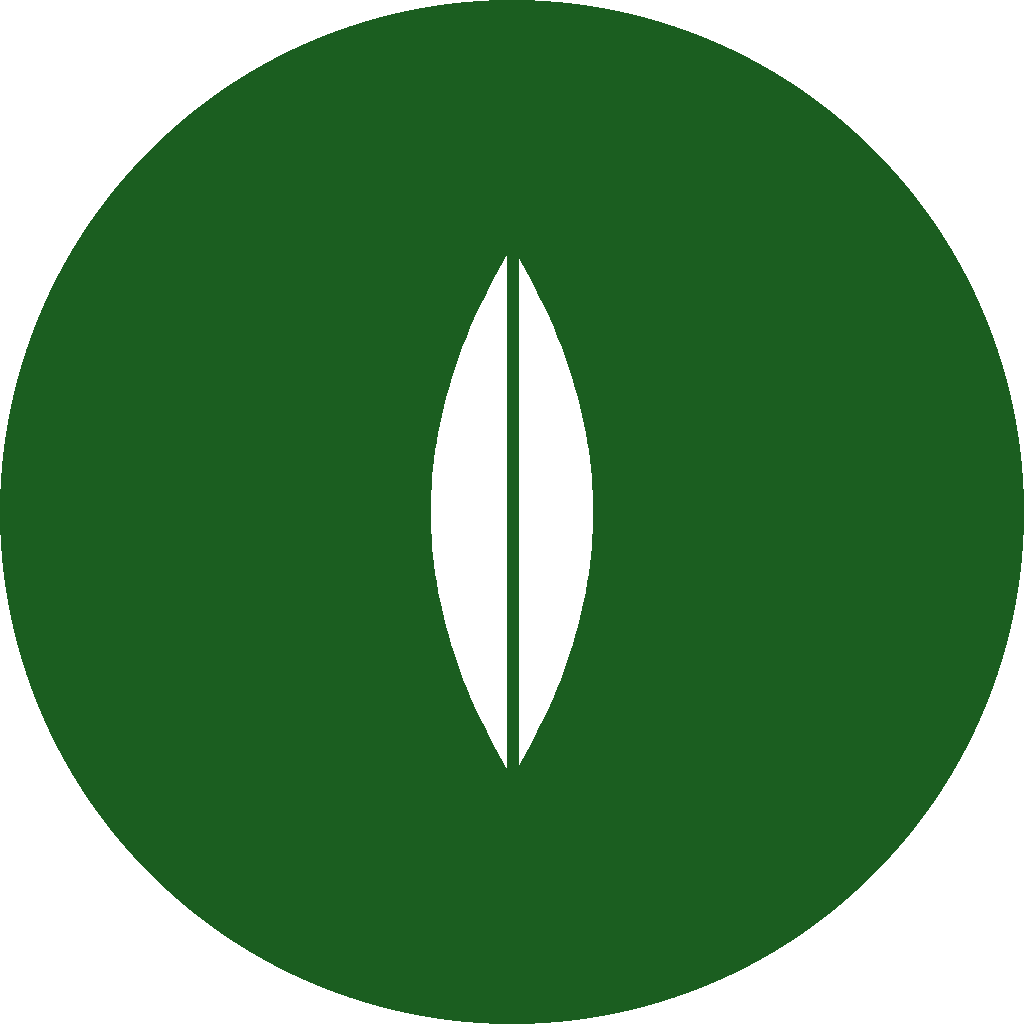
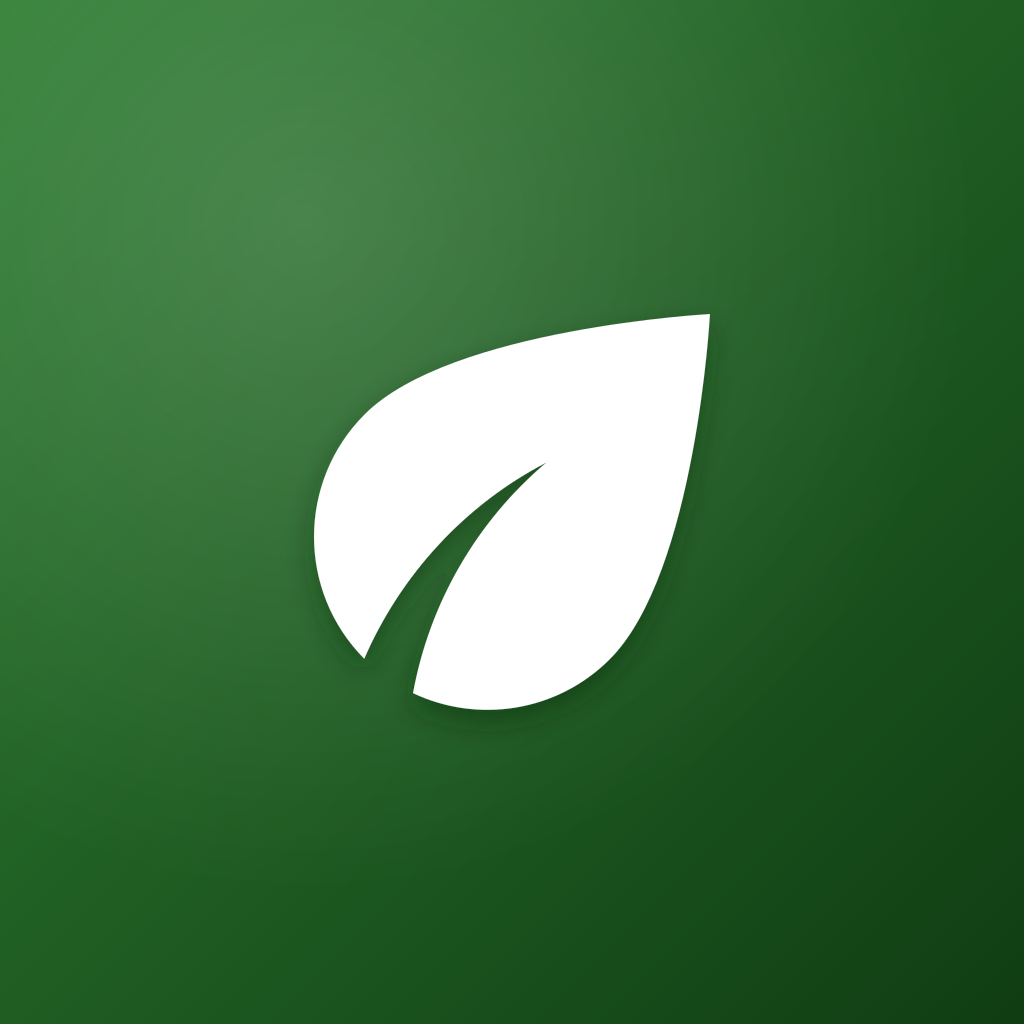
chore: linea base post-entrega (API prod, iconos adaptativos, sugerencia aleatoria, CLAUDE.md fase profesional)

diff --git a/backend/routes/activities.js b/backend/routes/activities.js
@@ -4,6 +4,32 @@ const { requireAuth } = require('../middleware/auth');
 
 const VALID_MOODS = ['FELIZ', 'TRISTE', 'ANSIOSO', 'CALMADO', 'ENOJADO', 'NEUTRO'];
 
+// GET /api/activities/random?mood=FELIZ[&exclude=N]
+router.get('/random', requireAuth, async (req, res) => {
+  const { mood, exclude } = req.query;
+
+  if (!mood || !VALID_MOODS.includes(mood)) {
+    return res.status(400).json({ error: 'mood inválido o faltante' });
+  }
+
+  const where = { moodType: mood };
+  if (exclude) {
+    where.activityId = { not: parseInt(exclude, 10) };
+  }
+
+  const moodActivities = await prisma.moodActivity.findMany({
+    where,
+    include: { activity: true },
+  });
+
+  if (moodActivities.length === 0) {
+    return res.json({ activity: null });
+  }
+
+  const idx = Math.floor(Math.random() * moodActivities.length);
+  res.json({ activity: moodActivities[idx].activity });
+});
+
 // GET /api/activities?categoria=social
 router.get('/', requireAuth, async (req, res) => {
   const { categoria } = req.query;

diff --git a/backend/routes/moodEntries.js b/backend/routes/moodEntries.js
@@ -5,20 +5,15 @@ const { requireAuth } = require('../middleware/auth');
 const VALID_MOODS = ['FELIZ', 'TRISTE', 'ANSIOSO', 'CALMADO', 'ENOJADO', 'NEUTRO'];
 
 async function nextSuggestion(userId, moodType, moodEntryId) {
-  const [count, moodActivities] = await Promise.all([
-    prisma.suggestion.count({
-      where: { moodEntry: { userId, moodType } },
-    }),
-    prisma.moodActivity.findMany({
-      where: { moodType },
-      include: { activity: true },
-      orderBy: { activityId: 'asc' },
-    }),
-  ]);
+  const moodActivities = await prisma.moodActivity.findMany({
+    where: { moodType },
+    include: { activity: true },
+    orderBy: { activityId: 'asc' },
+  });
 
   if (moodActivities.length === 0) return null;
 
-  const idx = count % moodActivities.length;
+  const idx = Math.floor(Math.random() * moodActivities.length);
   const chosen = moodActivities[idx].activity;
 
   await prisma.suggestion.create({

diff --git a/app/config.js b/app/config.js
@@ -1,4 +1,4 @@
 // ⚠️  DEMO: cambia esta IP a la de tu notebook antes de presentar
 // Ejemplo: 'http://192.168.1.45:3000'
 // Para encontrar tu IP en Windows: abre cmd y ejecuta `ipconfig`
-export const API_URL = 'http://192.168.0.112:3000';
+export const API_URL = 'https://moodmatch-0x2q.onrender.com';

diff --git a/CLAUDE.md b/CLAUDE.md
@@ -1,61 +1,149 @@
-# MoodMatch — Contexto del proyecto
+# MoodMatch — Visión sin límites (post-semestre)
 
-## Qué es
-App de bienestar personal (NO es red social). El usuario registra su estado
-de ánimo y la app le sugiere una actividad acorde. Los amigos se agregan vía
-un código QR único por usuario — no hay búsqueda pública ni descubrimiento
-social.
+## Contexto
 
-## Contexto académico
-- Curso: Ingeniería de Software, Universidad Santo Tomás (Chile)
-- Evaluación: Nota 2, presentación **miércoles 24 de junio de 2026, 14:00 hrs**
-- La rúbrica exige software funcional **real**, con base de datos conectada y
-  sin errores — no basta con documentación en papel (eso cambió respecto a
-  Nota 1)
+MoodMatch ya fue entregado y aprobado (Nota 2, Ingeniería de Software). El semestre
+terminó. A partir de ahora este documento reemplaza cualquier restricción de scope
+académico anterior: el objetivo es convertir MoodMatch en una app de nivel profesional,
+como si fuera a lanzarse de verdad a una tienda de apps.
 
-## Alcance mínimo decidido — NO AMPLIAR sin pedir confirmación
-Por el tiempo disponible, el alcance para la demo es deliberadamente acotado.
-No agregues funcionalidades extra (notificaciones, chat, matching avanzado,
-diseño muy pulido, etc.) sin que el usuario lo pida explícitamente:
+**Stack actual (base a mantener, no reescribir desde cero salvo justificación clara):**
+- Backend: Node.js / Express, Prisma ORM, PostgreSQL en Neon
+- Frontend: Expo / React Native
+- Deploy: Render (backend), EAS Build (APK)
+- Tests: 22 tests unitarios con Jest (base a expandir, no descartar)
 
-1. Registro / login básico
-2. Ingresar estado de ánimo → mostrar 1 actividad sugerida
-3. Generar el propio código QR + escanear uno para agregar un amigo (simple,
-   sin lista de amigos elaborada ni chat)
+**Nada de lo anterior es un techo.** Las decisiones de scope pasadas (WebSockets
+diferidos, alcance de amigos recortado, etc.) fueron correctas para una entrega
+académica con tiempo limitado. Ahora no hay ese límite: se reevalúa todo desde cero
+con el criterio de "¿qué haría que esta app sea genuinamente excelente?".
 
-## Stack tecnológico
-- **Backend**: Node.js + Express, carpeta `backend/`
-- **Base de datos**: PostgreSQL en Neon (cloud, free tier). NO Docker, NO
-  Postgres instalado localmente — decisión tomada por incompatibilidad de
-  Docker Desktop con el Windows 10 LTSC del usuario
-- **Conexión**: connection string vive en `backend/.env` como `DATABASE_URL`.
-  Nunca debe aparecer en código, commits, ni en este archivo
-- **ORM**: Prisma — úsalo para el esquema y las migraciones, no SQL a mano
-- **Frontend móvil**: Expo (React Native), carpeta `app/`
+## Filosofía de esta fase
 
-## Estructura de carpetas
+Trabajar como lo haría un equipo de producto + diseño + ingeniería senior construyendo
+un producto real, no como un estudiante terminando una tarea. Eso significa:
+- Explicar decisiones de diseño, no solo implementarlas
+- Pensar en el usuario final, no solo en que "funcione"
+- Cuidar el detalle: animaciones, microcopy, estados vacíos, casos borde
+- Priorizar por impacto real en la experiencia, no por lo más fácil de implementar
+
+---
+
+## 1. Sistema de temas (Theming)
+
+- Selector de tema accesible desde configuración, con preview en vivo antes de aplicar
+- Mínimo 4-5 temas completos (no solo cambio de color primario): paleta, tipografía,
+  iconografía y hasta el estilo de las ilustraciones/avatares deben sentirse coherentes
+  por tema. Ejemplos de dirección: minimalista claro, oscuro/nocturno, pastel cálido,
+  alto contraste (accesibilidad), y uno "playful"/colorido
+- Persistencia del tema elegido (local y sincronizado con el perfil del usuario)
+- Modo oscuro real (no solo invertir colores) con buen contraste y legibilidad
+- Transición animada suave al cambiar de tema
+
+## 2. Apartado de amigos — reconstruir a fondo
+
+Ideas a evaluar e implementar según lo que tenga más sentido (no todo tiene que
+entrar, pero hay que pensar en grande y justificar qué se prioriza):
+
+- **Perfiles de amigos enriquecidos**: avatar, racha de días registrando ánimo,
+  "ánimo predominante de la semana", última actividad compartida
+- **Feed social liviano**: línea de tiempo de ánimos de amigos (con control de
+  privacidad — el usuario decide qué comparte y con quién)
+- **Grupos/círculos de amigos**, no solo lista plana — por ejemplo "familia",
+  "amigos cercanos", "compañeros de curso"
+- **Racha compartida**: si dos amigos registran ánimo el mismo día X veces
+  seguidas, se desbloquea algo (gamificación liviana, sin exagerar)
+- **Actividades colaborativas reales**: la sección "para hacer con amigos" pasa
+  de ser una lista estática a poder proponerle una actividad a un amigo específico
+  y que este la acepte/rechace, con notificación
+- **Ánimo colectivo del círculo**: visualización agregada y anónima si se quiere
+  ("tu grupo está mayormente CALMADO hoy")
+- **Sistema de reacciones** además de los 6 mensajes predefinidos — algo más
+  expresivo pero que mantenga el control de privacidad y no se convierta en
+  otra red social ansiógena (cuidado de diseño ético aquí, es una app de bienestar)
+- **Notificaciones push reales** (Expo Notifications) para invitaciones de
+  amistad, actividades propuestas y ánimos recibidos
+- **Búsqueda y sugerencia de amigos** más allá del QR (código alfanumérico
+  para compartir a distancia, por ejemplo)
+
+## 3. Emociones — pulido e innovación
+
+- **Avatares emocionales que reaccionan y hablan**: cada uno de los 6 estados
+  (FELIZ, TRISTE, ANSIOSO, CALMADO, ENOJADO, NEUTRO) tiene su propio personaje/avatar
+  con animaciones y una "voz" (texto conversacional, no necesariamente audio real)
+  que responde según el ánimo registrado. Ejemplo: si registras ANSIOSO, el avatar
+  correspondiente muestra empatía y ofrece una actividad de respiración antes de
+  la sugerencia estándar
+- Definir personalidad y tono de cada avatar (consistente con las guías de
+  wellbeing: nunca minimizar el malestar, nunca ser excesivamente positivo
+  frente a emociones difíciles, siempre validar antes de sugerir)
+- **Animaciones de transición** entre estados emocionales (Lottie o Reanimated)
+- **Historial visual de ánimo**: gráfico de tendencia semanal/mensual, con
+  posibilidad de detectar patrones simples ("llevas 3 días registrando ANSIOSO,
+  ¿quieres ver actividades enfocadas en eso?") — sin diagnosticar ni psicoanalizar,
+  solo reflejar el patrón que el propio usuario registró
+  - **Importante (bienestar del usuario)**: esta función debe limitarse a mostrar
+    lo que el usuario mismo registró, nunca inferir causas, nunca sugerir una
+    condición de salud mental, y siempre dejar la puerta abierta a "hablar con
+    alguien" sin ser alarmista
+- **Journaling opcional**: nota corta de texto libre junto al registro de ánimo,
+  privada por defecto
+- **Sugerencias de actividad más inteligentes**: mantener el sistema determinista
+  actual como base, pero permitir que evolucione con el historial del usuario
+  (qué actividades ha marcado como "me ayudó" vs no), sin volverse una caja negra
+
+## 4. Otras áreas a llevar a nivel profesional
+
+- **Onboarding**: flujo de bienvenida que explique el propósito de la app y
+  pida los permisos necesarios con contexto (por qué notificaciones, por qué cámara)
+- **Accesibilidad real**: soporte de lector de pantalla, tamaños de fuente
+  ajustables, contraste verificado en cada tema
+- **Testing**: expandir mucho más allá de los 22 tests — integración, e2e de
+  los flujos nuevos (amigos, temas, avatares), tests de los casos borde de
+  privacidad en el feed social
+- **Seguridad y privacidad**: dado que ahora hay más datos sociales/emocionales
+  compartidos, reforzar controles de privacidad granular y auditar qué se expone
+  en cada endpoint nuevo
+- **Performance**: con feed social y más datos, revisar paginación, caching e
+  índices en Neon desde el diseño, no como parche después
+- **CI/CD**: pipeline que corra tests y linting en cada push
+- **Documentación**: README y ADRs (Architecture Decision Records) para las
+  decisiones grandes de esta fase, dado que ahora sí hay espacio para hacerlo bien
+
+---
+
+## Cómo debe trabajar Claude Code en esta fase
+
+- Este es un proyecto grande: trabajar por **fases**, no intentar todo en una sola sesión maratónica
+- Antes de cada fase grande (ej. "reconstruir amigos", "sistema de temas"), usar
+  **plan mode**, mostrar el plan, y esperar confirmación antes de tocar código
+- Mantener siempre la app en estado funcional: no dejar la mitad de una feature
+  a medio construir sin poder correr la app
+- Escribir tests junto con cada feature nueva, no al final
+- Ser honesto sobre trade-offs y complejidad — si algo de la lista es demasiado
+  para un proyecto de este tamaño, decirlo y proponer una versión más simple
+  en vez de implementar algo a medias
+- Cuidar especialmente el tono de los avatares emocionales y las funciones de
+  historial/patrones: esta es una app de bienestar, no debe psicoanalizar al
+  usuario ni hacer afirmaciones clínicas — solo reflejar y acompañar
+
+## Configuración de la sesión (fuera de este archivo)
+
 ```
-moodmatch/
-├── backend/      ← API Node + Express + Prisma
-├── app/          ← App móvil Expo
-├── CLAUDE.md
-└── README.md
+/model claude-fable-5
+/effort max
 ```
 
-## Estado actual
-- [x] Cuenta Neon creada, conexión probada (`backend/test-db.js`)
-- [ ] Esquema Prisma con las 6 tablas (basado en el ERD ya hecho para Nota 1)
-- [ ] Endpoints CRUD básicos (usuarios, estados de ánimo, actividades, amigos)
-- [ ] App Expo inicializada y conectada al backend
-- [ ] Flujo de QR (generar/escanear)
-- [ ] Tests unitarios reales (Jest) — recién tiene sentido una vez que el
-      backend exista
-- [ ] Documentación del modelo iterativo (4 documentos) — pendiente, es
-      trabajo de escritorio fuera del código, no es tarea de Claude Code
+O de forma persistente en `.claude/settings.json`:
 
-## Convenciones
-- Comunícate en español informal de Chile, directo, sin vueltas
-- Simplicidad ante todo: es un proyecto de un solo desarrollador con plazo de
-  días, no arquitectura "enterprise"
-- Si una funcionalidad no está en el alcance mínimo de arriba, pregunta antes
-  de construirla
+```json
+{
+  "model": "claude-fable-5",
+  "effortLevel": "max"
+}
+```
+
+Recuerda que Fable a máximo esfuerzo es la configuración más cara y lenta —
+tiene sentido para esta fase de reconstrucción profunda. Termina cada fase,
+revisa el resultado, y decide si sigues con Fable/max o bajas a Sonnet 5/high
+para iteraciones más chicas de ajuste.